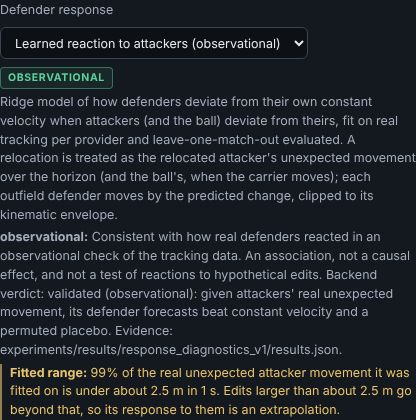
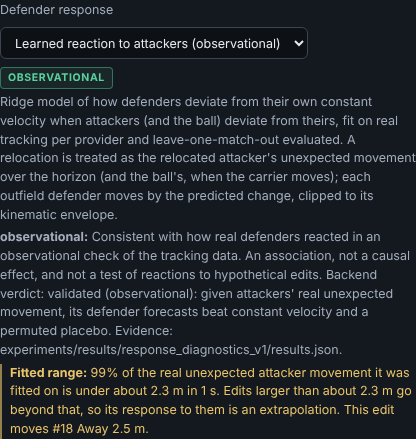
Serve learned_innovation's fitted range as structured, per-provider fields read from the committed diagnostics
The served prose said 'about 2.5 m' for both providers; the measured p99 of
1.0 s attacker innovation is 2.29 m (Metrica) and 2.48 m (SkillCorner). A test
pins the served values to response_diagnostics_v1*. The lab prefers the field
(shown and compared at 0.1 m) and falls back to the prose for older backends.

Changed region(s): [[0.0, 0.0619, 1.0, 0.9905], [0.1562, 0.0, 0.2812, 0.031], [0.0, 0.0, 0.125, 0.031]]

diff --git a/web/src/api/policy.test.ts b/web/src/api/policy.test.ts
@@ -38,7 +38,7 @@ function scenario(extra: Record<string, unknown> = {}) {
 
 describe("parsePolicyInfo / parseResponsePolicies", () => {
   it("accepts a full policy and treats a missing validation_ref as null", () => {
-    expect(parsePolicyInfo(POLICY)).toEqual({ ...POLICY, status: null, verdict: null });
+    expect(parsePolicyInfo(POLICY)).toEqual({ ...POLICY, status: null, verdict: null, fitted_range: null });
     const noRef: Record<string, unknown> = { ...POLICY };
     delete noRef.validation_ref;
     expect(parsePolicyInfo(noRef).validation_ref).toBeNull();
@@ -54,6 +54,14 @@ describe("parsePolicyInfo / parseResponsePolicies", () => {
     expect(parsePolicyInfo(POLICY).status).toBeNull();
     expect(() => parsePolicyInfo({ ...POLICY, status: 3 })).toThrow(/status/);
     expect(parseResponsePolicies([{ ...POLICY, status: verdict }])[0]?.status).toBe(verdict);
+  });
+
+  it("parses a structured fitted range and rejects a malformed one (SYNTHETIC values)", () => {
+    const fr = { share: 0.99, limit_m: 2.29, horizon_s: 1, quantity: "synthetic", ref: "x/results.json" };
+    expect(parsePolicyInfo({ ...POLICY, fitted_range: fr }).fitted_range).toEqual(fr);
+    expect(parsePolicyInfo({ ...POLICY, fitted_range: null }).fitted_range).toBeNull();
+    expect(() => parsePolicyInfo({ ...POLICY, fitted_range: { ...fr, limit_m: -1 } })).toThrow(/limit_m/);
+    expect(() => parsePolicyInfo({ ...POLICY, fitted_range: { share: 0.99 } })).toThrow(/fitted_range/);
   });
 
   it("keeps a known machine-readable verdict and ignores an unknown one (SYNTHETIC values)", () => {
@@ -92,7 +100,7 @@ describe("parseScenario with and without a policy", () => {
 
   it("accepts a null policy and a well-formed policy", () => {
     expect(parseScenario(scenario({ policy: null })).policy).toBeNull();
-    expect(parseScenario(scenario({ policy: POLICY })).policy).toEqual({ ...POLICY, status: null, verdict: null });
+    expect(parseScenario(scenario({ policy: POLICY })).policy).toEqual({ ...POLICY, status: null, verdict: null, fitted_range: null });
     const withStatus = { ...POLICY, status: "experimental: synthetic verdict" };
     expect(parseScenario(scenario({ policy: withStatus })).policy?.status).toBe("experimental: synthetic verdict");
   });

diff --git a/web/src/api/contract.test.ts b/web/src/api/contract.test.ts
@@ -99,6 +99,7 @@ const TS: Record<string, string[]> = {
   StatementOut: keysOf<StatementOut>({ kind: true, text: true, metric: true, value: true, provenance: true, players: true }),
   PolicyInfo: keysOf<PolicyInfo>({
     name: true, description: true, assumptions: true, validated: true, validation_ref: true, status: true, verdict: true,
+    fitted_range: true,
   }),
   ScenarioResponse: keysOf<ScenarioResponse>({
     observed: true, hypothetical: true, feasibility: true, movements: true, option_deltas: true,
@@ -178,8 +179,14 @@ describe("policy verdicts from the real GET /api/response-policies payload", () 
     for (const b of Object.values(badges)) if (b) expect(POLICY_BADGE_TEXT[b]).toBeTruthy();
   });
 
-  it("reads learned_innovation's fitted range from its own assumptions, and no other policy has one", () => {
-    expect(policyFitRange(byName.get("learned_innovation"))).toEqual({ sharePct: 99, limitM: 2.5, horizonS: 1 });
+  it("reads learned_innovation's fitted range from its served fitted_range, and no other policy has one", () => {
+    const served = realPolicies.find((p) => p.name === "learned_innovation")?.fitted_range;
+    if (!served) throw new Error("the captured payload has no fitted_range for learned_innovation");
+    expect(policyFitRange(byName.get("learned_innovation"))).toEqual({
+      sharePct: Math.round(served.share * 1000) / 10,
+      limitM: Math.round(served.limit_m * 10) / 10,
+      horizonS: served.horizon_s,
+    });
     for (const p of list) if (p.name !== "learned_innovation") expect(policyFitRange(p)).toBeNull();
   });
 });

diff --git a/web/src/api/parse.ts b/web/src/api/parse.ts
@@ -136,7 +136,25 @@ export function parsePolicyInfo(raw: unknown, what = "policy"): PolicyInfo {
   // backend's vocabulary does not break the lab; the badge then falls back to the status text.
   const verdict = raw.verdict;
   need(verdict === undefined || verdict === null || typeof verdict === "string", `${what}.verdict is not a string or null`);
+  // Structured fitted range (newer backends); absent or null otherwise.
+  const fr = raw.fitted_range;
+  let fitted_range: PolicyInfo["fitted_range"] = null;
+  if (fr !== undefined && fr !== null) {
+    needKeys(fr, ["share", "limit_m", "horizon_s", "quantity", "ref"], `${what}.fitted_range`);
+    for (const k of ["share", "limit_m", "horizon_s"] as const) {
+      need(typeof fr[k] === "number" && Number.isFinite(fr[k]) && fr[k] > 0, `${what}.fitted_range.${k} is not a positive number`);
+    }
+    need(typeof fr.quantity === "string" && typeof fr.ref === "string", `${what}.fitted_range text is not a string`);
+    fitted_range = {
+      share: fr.share as number,
+      limit_m: fr.limit_m as number,
+      horizon_s: fr.horizon_s as number,
+      quantity: fr.quantity as string,
+      ref: fr.ref as string,
+    };
+  }
   return {
+    fitted_range,
     name: raw.name,
     description: raw.description,
     assumptions: raw.assumptions as string[],

diff --git a/web/src/lib/policies.test.ts b/web/src/lib/policies.test.ts
@@ -94,6 +94,13 @@ describe("policy labels and flags", () => {
     );
   });
 
+  it("prefers the structured fitted range over the prose (SYNTHETIC values)", () => {
+    const fitted_range = { share: 0.99, limit_m: 2.29, horizon_s: 1, quantity: "synthetic", ref: "x" };
+    const prose = ["Linear: 95% of synthetic innovations are below about 3.1 m in 0.5 s, so beyond is an extrapolation."];
+    expect(policyFitRange({ assumptions: prose, fitted_range })).toEqual({ sharePct: 99, limitM: 2.3, horizonS: 1 });
+    expect(policyFitRange({ assumptions: prose, fitted_range: null })).toEqual({ sharePct: 95, limitM: 3.1, horizonS: 0.5 });
+  });
+
   it("reads a fitted range only from an extrapolation statement in the assumptions", () => {
     const fit = (assumptions: string[]) => policyFitRange({ assumptions });
     expect(fit(["Linear: 95% of synthetic innovations are below about 3.1 m in 0.5 s, so beyond is an extrapolation."])).toEqual({

diff --git a/web/src/lib/policies.ts b/web/src/lib/policies.ts
@@ -124,7 +124,13 @@ export interface FitRange {
 
 const FIT_RANGE = /(\d+(?:\.\d+)?)\s*%[^.;]*?\bbelow about (\d+(?:\.\d+)?)\s*m in (\d+(?:\.\d+)?)\s*s\b/i;
 
-export function policyFitRange(p: Pick<PolicyInfo, "assumptions"> | null | undefined): FitRange | null {
+export function policyFitRange(
+  p: Pick<PolicyInfo, "assumptions" | "fitted_range"> | null | undefined,
+): FitRange | null {
+  // the structured field (newer backends) wins; the prose is a fallback for older ones
+  const f = p?.fitted_range;
+  // the limit is shown and compared at 0.1 m ("about 2.3 m"), like the prose it replaces
+  if (f) return { sharePct: Math.round(f.share * 1000) / 10, limitM: Math.round(f.limit_m * 10) / 10, horizonS: f.horizon_s };
   for (const a of p?.assumptions ?? []) {
     if (!/extrapolat/i.test(a)) continue;
     const m = FIT_RANGE.exec(a);

diff --git a/web/e2e/flow.spec.ts b/web/e2e/flow.spec.ts
@@ -319,7 +319,8 @@ test("keyboard edit with a defender response: selector, simulated moves and stat
   await select.selectOption("learned_innovation");
   await expect(panel).toHaveAttribute("data-status", "success", { timeout: 30_000 });
   await expect(page.getByTestId("policy-badge")).toHaveText("observational");
-  await expect(page.getByTestId("policy-fit-range")).toContainText("under about 2.5 m in 1 s");
+  // the provider's own fitted range (served as fitted_range): 2.3 m on Metrica, 2.5 m on SkillCorner
+  await expect(page.getByTestId("policy-fit-range")).toContainText(/under about 2\.[35] m in 1 s/);
   await expect(page.getByTestId("policy-fit-range")).toContainText("extrapolation");
   await shotPolicy(page, "learned-innovation");
 

diff --git a/web/src/api/types.ts b/web/src/api/types.ts
@@ -339,6 +339,18 @@ export interface PolicyInfo {
   status?: string | null;
   /** machine-readable form of `status` (newer backends); the badge prefers it when present */
   verdict?: PolicyVerdict | null;
+  /** for a linear, data-fitted response: the range of real movement it was fitted on (newer backends) */
+  fitted_range?: FittedRangeOut | null;
+}
+
+export interface FittedRangeOut {
+  /** share of real rows below limit_m, e.g. 0.99 */
+  share: number;
+  limit_m: number;
+  horizon_s: number;
+  quantity: string;
+  /** committed results.json the limit is read from */
+  ref: string;
 }
 
 export const POLICY_VERDICTS = [

diff --git a/src/footymind/counterfactual/response.py b/src/footymind/counterfactual/response.py
@@ -278,7 +278,8 @@ def _specs(limits: Limits | None = None) -> dict[str, PolicySpec]:
                 "Response weights depend on distance at the analysed frame: nearest attacker, "
                 "attackers within about 5 m and 15 m, and the attacking team as a whole.",
                 "Linear: a relocation larger than real unexpected movement (99% of attacker "
-                "innovations are below about 2.5 m in 1 s) is an extrapolation.",
+                "innovations are below about 2.3 m (Metrica) / 2.5 m (SkillCorner) in 1 s; "
+                "exact values in fitted_range) is an extrapolation.",
                 "Forecast horizon is capped at the longest trained horizon (1.0 s).",
                 *common,
             ),
@@ -298,6 +299,43 @@ class PolicyInfo:
     validation_ref: str | None
     status: str
     verdict: str = "unchecked"
+    fitted_range: FittedRange | None = None
+
+
+@dataclass(frozen=True)
+class FittedRange:
+    """The range of real movement a linear, data-fitted response was fitted on.
+
+    A relocation beyond ``limit_m`` in ``horizon_s`` is an extrapolation of the model.
+    """
+
+    share: float  # share of real rows below the limit
+    limit_m: float
+    horizon_s: float
+    quantity: str
+    ref: str
+
+
+# 99th percentile of off-ball attackers' 1.0 s innovation (displacement beyond their own
+# constant velocity), measured on the training data of each provider's innovation model:
+# response_diagnostics_v1[_skillcorner] d3_innovation_scale["1.0s"].attacker_innovation_m.p99
+# (pinned to those files by tests/test_learned_innovation_policy.py).
+INNOVATION_FIT_RANGE = {
+    "metrica": FittedRange(
+        0.99,
+        2.29,
+        1.0,
+        "off-ball attacker innovation (displacement beyond own constant velocity)",
+        "experiments/results/response_diagnostics_v1/results.json",
+    ),
+    "skillcorner": FittedRange(
+        0.99,
+        2.48,
+        1.0,
+        "off-ball attacker innovation (displacement beyond own constant velocity)",
+        "experiments/results/response_diagnostics_v1_skillcorner/results.json",
+    ),
+}
 
 
 # Machine-readable verdicts (the ``status`` text says the same in words).
@@ -380,8 +418,14 @@ def policy_info(name: str, provider: str | None = None) -> PolicyInfo:
         status = _OBSERVATIONAL_STATUS[name]
     else:
         status = "experimental: not validated against tracking"
+    fit = None
+    if name == "learned_innovation":
+        keys = [provider] if provider else list(INNOVATION_FIT_RANGE)
+        ranges = [INNOVATION_FIT_RANGE[p] for p in keys if p in INNOVATION_FIT_RANGE]
+        # without a provider: the tightest; an unknown provider has no fitted model
+        fit = min(ranges, key=lambda r: r.limit_m) if ranges else None
     return PolicyInfo(
-        name, spec.description, list(spec.assumptions), validated, ref, status, verdict
+        name, spec.description, list(spec.assumptions), validated, ref, status, verdict, fit
     )
 
 

diff --git a/tests/test_learned_innovation_policy.py b/tests/test_learned_innovation_policy.py
@@ -53,6 +53,25 @@ def test_new_policy_is_served() -> None:
     assert ALL_POLICY_NAMES == POLICY_NAMES
 
 
+def test_fitted_range_is_read_from_the_committed_diagnostics() -> None:
+    """The served extrapolation limit is the p99 of attackers' 1.0 s innovation in the
+    committed diagnostics of each provider (rounded to 1 cm), never a hand-picked number."""
+    import json
+
+    from footymind.counterfactual.response import INNOVATION_FIT_RANGE, policy_info
+    from footymind.paths import REPO_ROOT
+
+    for prov, fr in INNOVATION_FIT_RANGE.items():
+        res = json.loads((REPO_ROOT / fr.ref).read_text())
+        p99 = res["d3_innovation_scale"]["1.0s"]["attacker_innovation_m"]["p99"]
+        assert fr.limit_m == pytest.approx(p99, abs=0.005), prov
+        assert (fr.share, fr.horizon_s) == (0.99, 1.0)
+        assert policy_info("learned_innovation", prov).fitted_range == fr
+    tightest = min(INNOVATION_FIT_RANGE.values(), key=lambda r: r.limit_m)
+    assert policy_info("learned_innovation").fitted_range == tightest
+    assert policy_info("marker_follows", "metrica").fitted_range is None
+
+
 @pytest.mark.parametrize("who", [CARRIER, RECEIVER])
 def test_moves_only_outfield_defenders_by_a_visible_amount(who: int) -> None:
     s = state()

diff --git a/src/footymind/api/schemas.py b/src/footymind/api/schemas.py
@@ -371,6 +371,14 @@ class FeasibilityOut(BaseModel):
     )
 
 
+class FittedRangeOut(BaseModel):
+    share: float = Field(description="share of real rows below limit_m (e.g. 0.99)")
+    limit_m: float = Field(description="relocations larger than this are extrapolations")
+    horizon_s: float
+    quantity: str
+    ref: str = Field(description="committed results.json the limit is read from")
+
+
 class ResponsePolicyOut(BaseModel):
     name: ResponsePolicyName
     description: str
@@ -402,6 +410,13 @@ class ResponsePolicyOut(BaseModel):
             "reactions in the paired observational check, C70), not_supported, unchecked, or "
             "no_response (the static baseline). Never an intervention validation"
         )
+    )
+    fitted_range: FittedRangeOut | None = Field(
+        None,
+        description=(
+            "for a linear, data-fitted response: the range of real movement it was fitted on "
+            "(for this match's provider; without a match, the tightest over providers)"
+        ),
     )
 
 

diff --git a/src/footymind/api/app.py b/src/footymind/api/app.py
@@ -825,6 +825,15 @@ def _policy_out(p: PolicyInfo) -> S.ResponsePolicyOut:
         validation_ref=p.validation_ref,
         status=p.status,
         verdict=p.verdict,  # type: ignore[arg-type]
+        fitted_range=None
+        if p.fitted_range is None
+        else S.FittedRangeOut(
+            share=p.fitted_range.share,
+            limit_m=p.fitted_range.limit_m,
+            horizon_s=p.fitted_range.horizon_s,
+            quantity=p.fitted_range.quantity,
+            ref=p.fitted_range.ref,
+        ),
     )
 
 

diff --git a/docs/CURRENT_STATE.md b/docs/CURRENT_STATE.md
@@ -45,7 +45,9 @@ indexes on start.
   inert), `learned_innovation` (observational co-movement model, session 4). Each policy carries
   a `status` sentence and a machine-readable `verdict` (`observational_supported`,
   `not_supported`, `forecast_validated`, `observational_validated`, `unchecked`,
-  `no_response`). Kinematic **envelope v2** clips every simulated move.
+  `no_response`). `learned_innovation` also serves its per-provider `fitted_range` (99% of real
+  1 s attacker innovations below 2.29 m Metrica / 2.48 m SkillCorner, read from
+  `response_diagnostics_v1*`). Kinematic **envelope v2** clips every simulated move.
 * Causal temporal context, guard frames (ADR-0007, calibrated, C38), evidence-grounded
   explanations, similar-moment retrieval with the validated k = 50 estimate (C36).
 * Research modules: rule response check v4 (paired, rotation placebo, C70), off-ball opportunity
@@ -63,7 +65,7 @@ indexes on start.
 ## Verification (end of session 4)
 | Gate | Result |
 |---|---|
-| `scripts/check.sh` (exit code 0, all 23 bundles at v3) | ruff, format, mypy, **339 pytest passed, 0 skipped**; web typecheck, lint, **211 vitest**, build |
+| `scripts/check.sh` (exit code 0, all 23 bundles at v3) | ruff, format, mypy, **340 pytest passed, 0 skipped**; web typecheck, lint, **213 vitest**, build |
 | `cd web && npx playwright test --trace off` | **27/27** against the real API on v3 data (flow, screenshots, broadcast tests) |
 | GitHub CI | every job green for 83d4830, including the container-runtime `docker` job; see the final report for the newest run |
 | `scripts/reproduce.sh --dry-run` | exit 0, every committed artefact in dependency order |
@@ -109,9 +111,7 @@ indexes on start.
    joint. A joint-innovation counterfactual with `learned_innovation` is the natural next study.
 2. **Possession-value target.** Replace the best-progressive-option measure with a
    possession-value model so off-ball credit is measured in a quantity that sees small moves.
-3. **Structured fitted-range fields.** `learned_innovation`'s fitted range is still prose that
-   the lab parses; expose share, limit and horizon as fields.
-4. **More Metrica-like data.** Three optical matches limit every Metrica CI to within-match
+3. **More Metrica-like data.** Three optical matches limit every Metrica CI to within-match
    sampling.
 
 ## Decisions needing the owner
